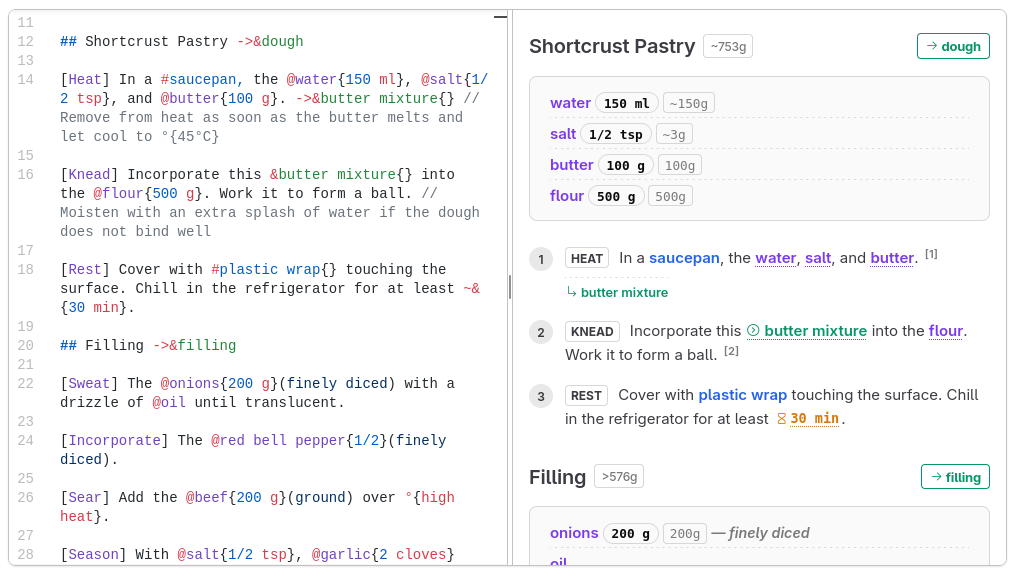
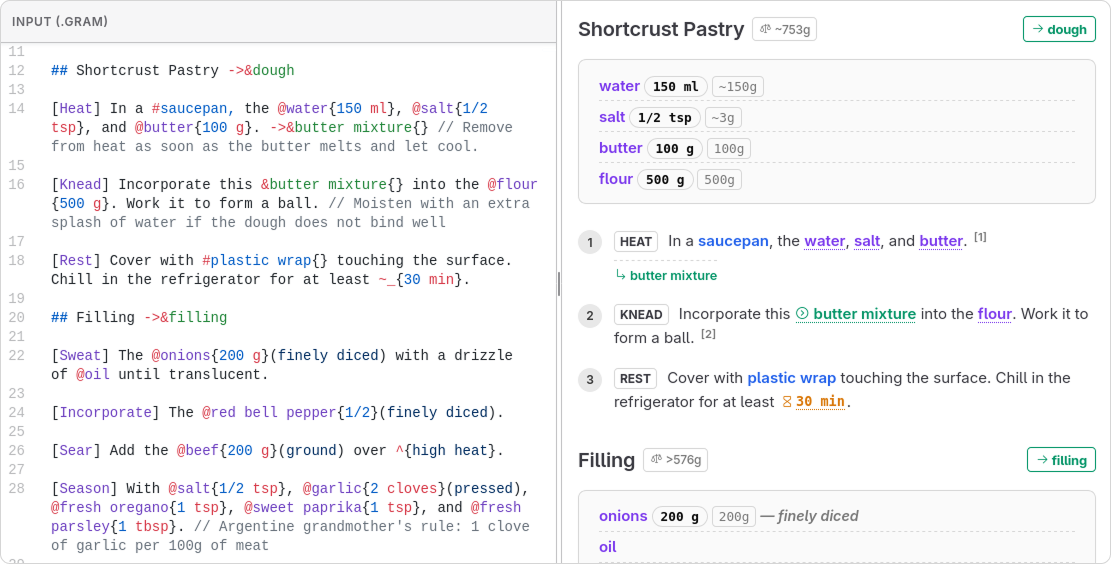
docs: removed line and refresh screenshot

Changed region(s): [[0.0, 0.0, 1.0, 1.0], [0.5498, 0.422, 1.0, 0.633]]

diff --git a/packages/docs/src/explanation/mass-and-yield.md b/packages/docs/src/explanation/mass-and-yield.md
@@ -15,8 +15,6 @@ Gram separates the physical properties of ingredients into three distinct concep
 3. **Yield (`yield`)**: The **Waste Factor**. Used strictly to calculate the ratio of edible **Net Mass** to purchasing **Gross Mass** (due to peels, seeds, bones).
     * *Example*: An avocado has a yield of 0.70 (30% is the pit and skin).
 
----
-
 ## The Goal of Mass Standardization
 
 The primary goal of the Analyzer is to calculate the **Total Mass** of a recipe. This is essential for nutritional estimation, cost calculation, and baking ratios.
